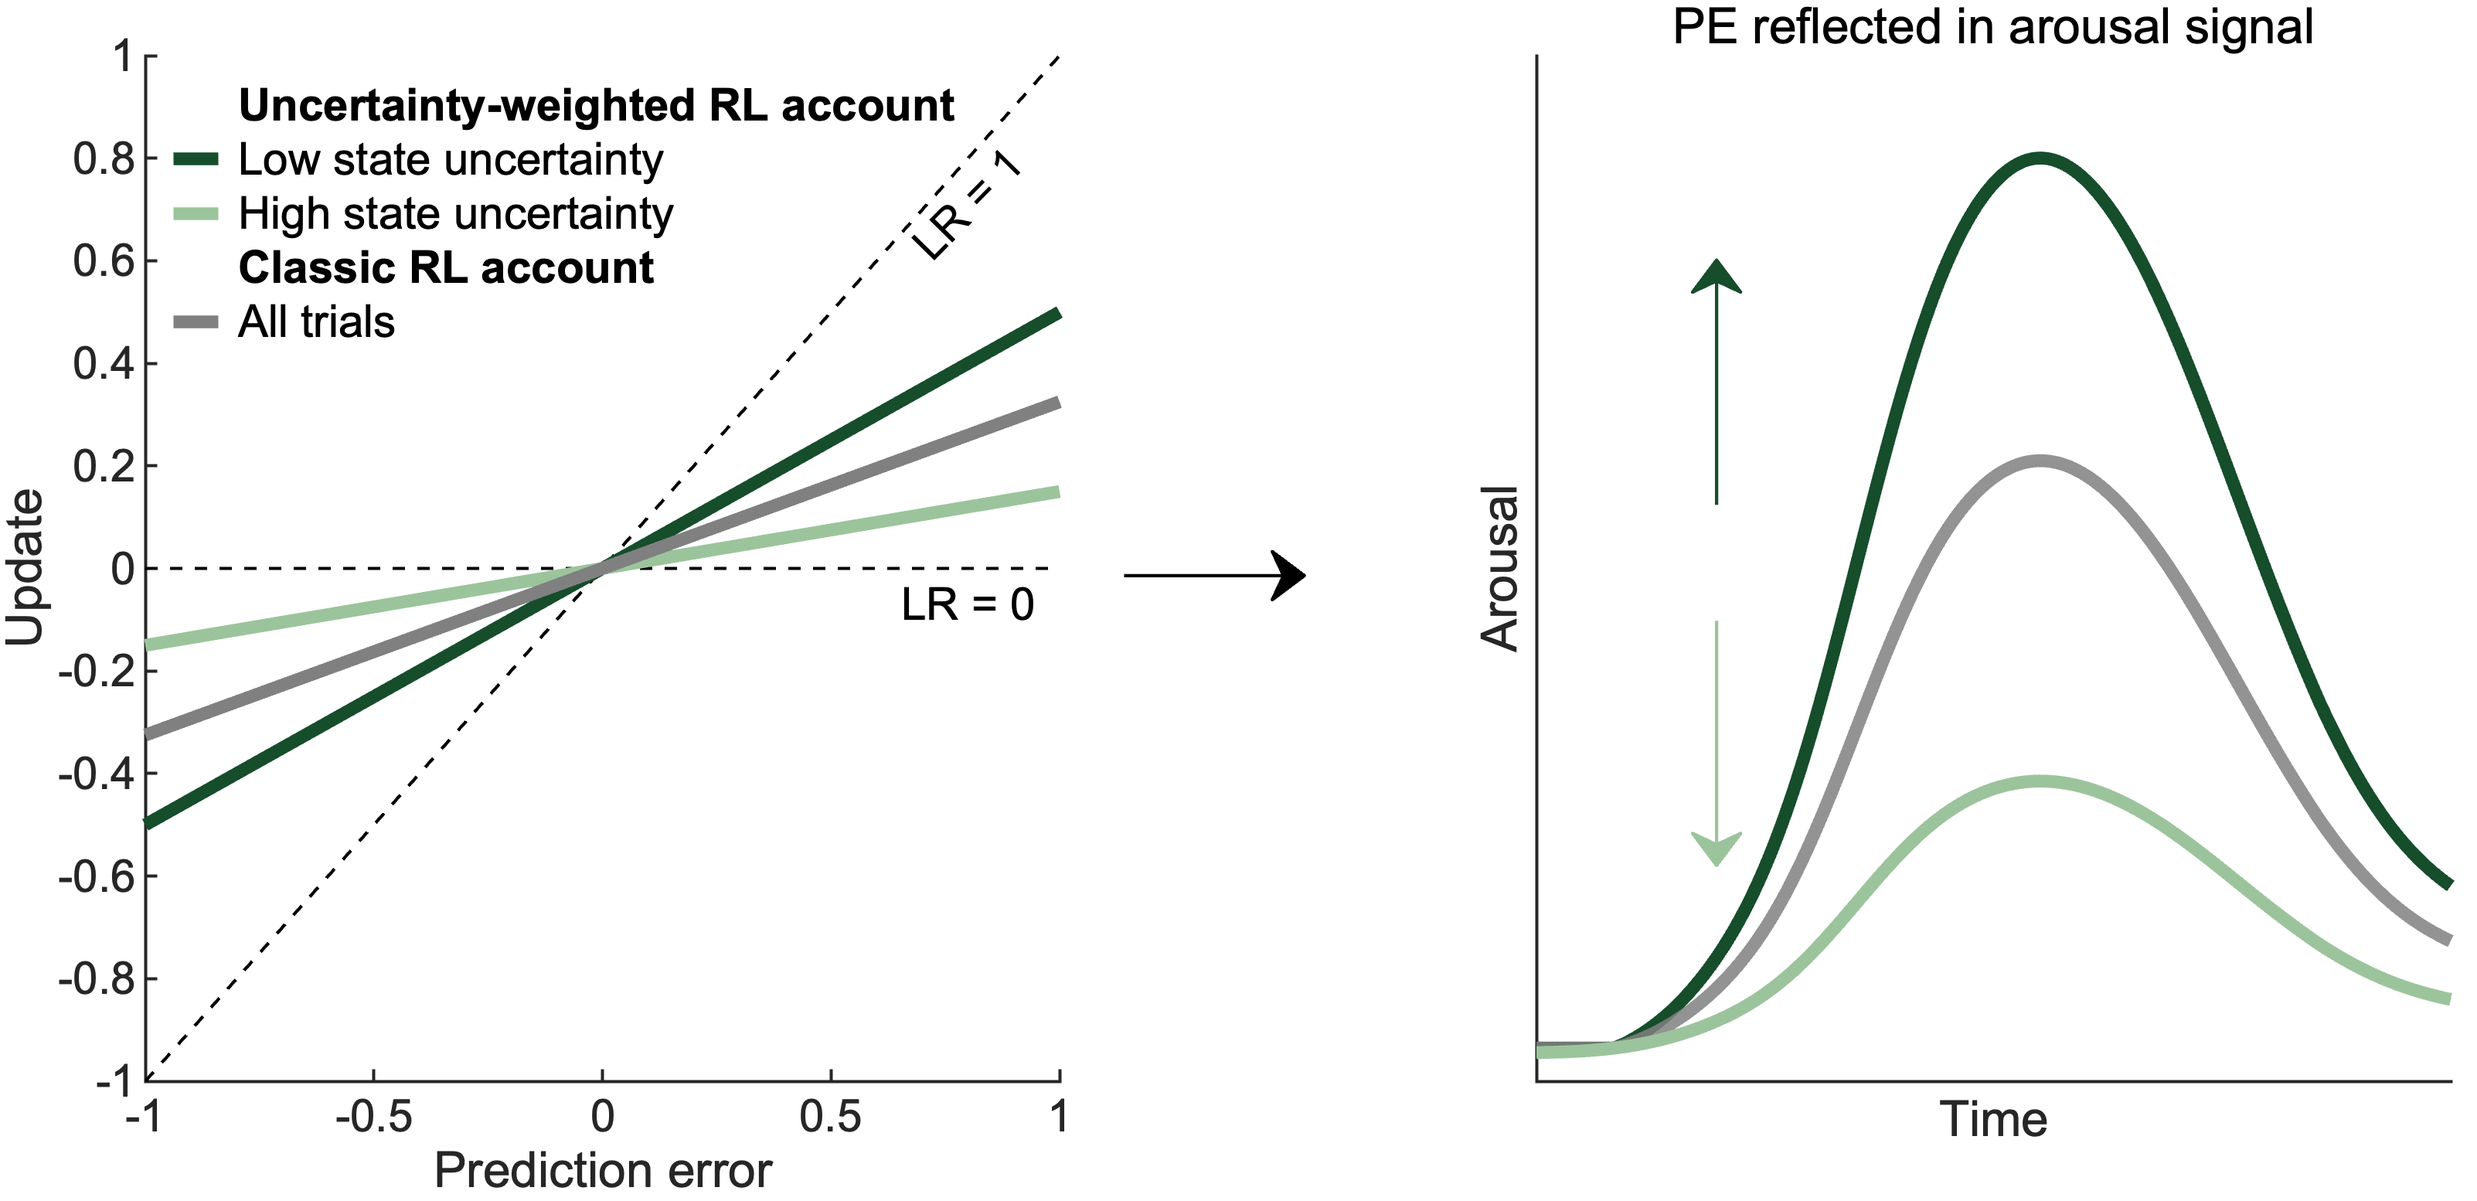
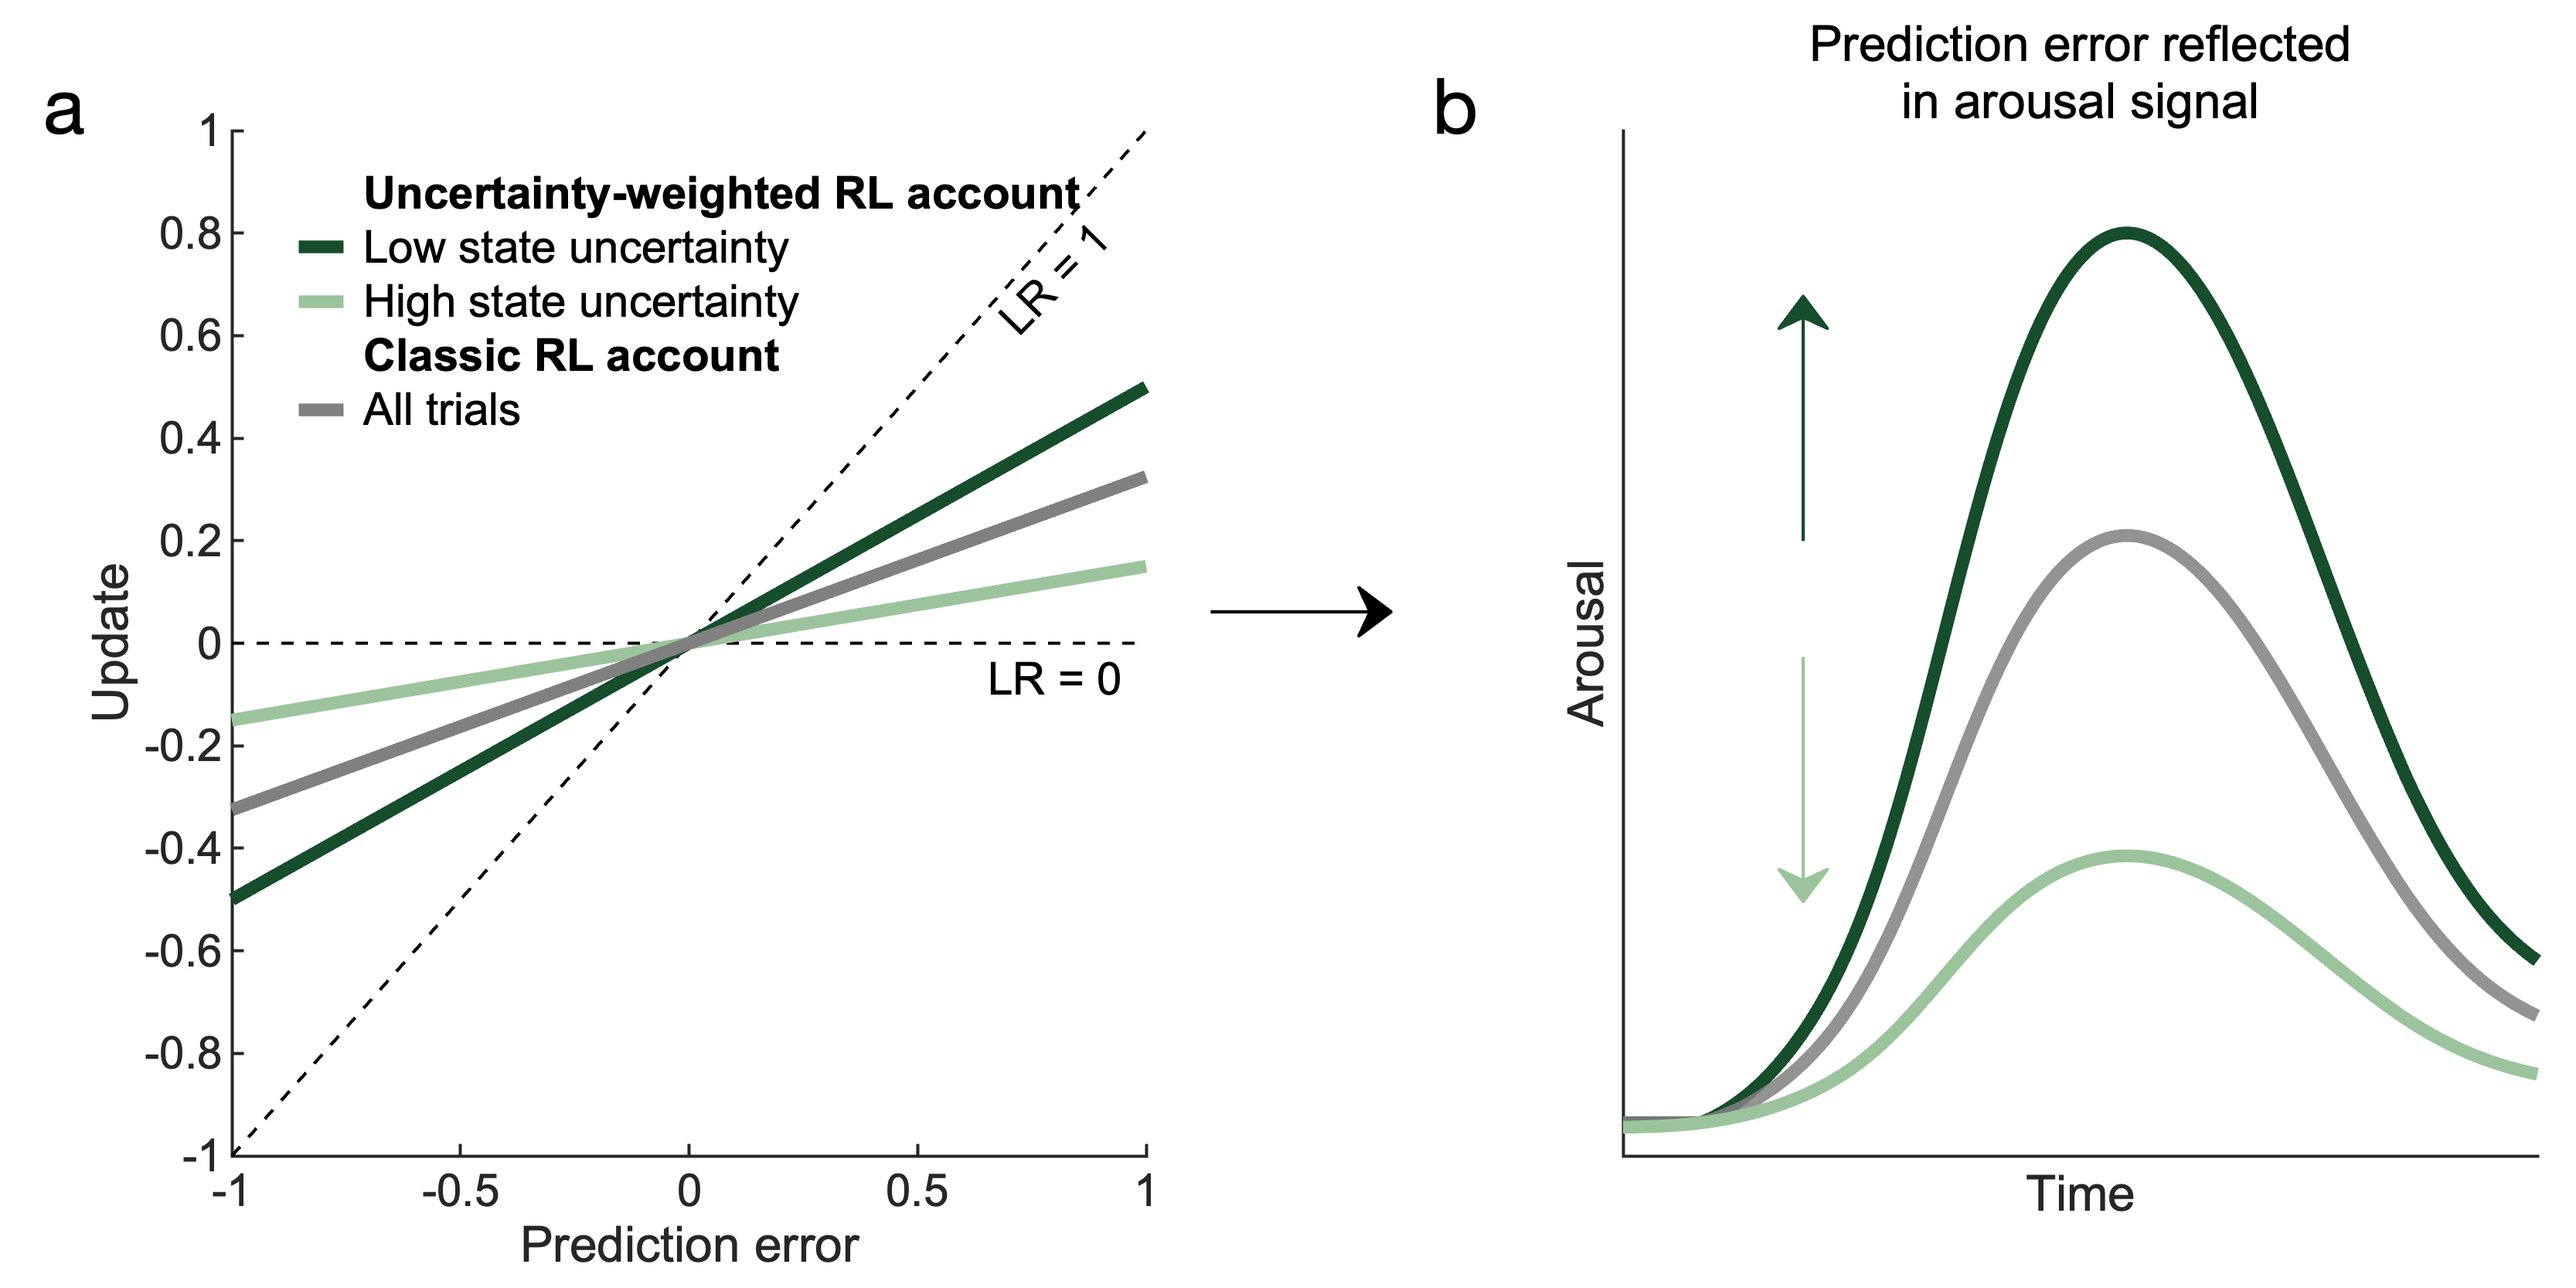
added demo check script

diff --git a/demoCheck.m b/demoCheck.m
@@ -1,0 +1,79 @@
+clc
+clearvars
+
+folderPath = "/Users/prashantig/Brown Dropbox/Prashanti Ganesh/PhD/Semester 6/pupil_data/pre_preprocessed/behv/personal_info";
+files = dir(fullfile(folderPath, '*.*'));
+files = files(~[files.isdir]);
+
+formResponses   = {};   % form_index == 1  (gender)
+ageResponses    = {};   % form_index == 13
+fileNames       = {};
+
+for i = 1:length(files)
+    fileName = files(i).name;
+    fullPath = fullfile(folderPath, fileName);
+    [~, ~, ext] = fileparts(fileName);
+    
+    try
+        switch lower(ext)
+            case {'.csv', '.xlsx'}
+                T = readtable(fullPath);
+            case '.mat'
+                data = load(fullPath);
+                T = struct2table(data);
+            otherwise
+                fprintf('Skipping unsupported file: %s\n', fileName);
+                continue
+        end
+    catch ME
+        fprintf('Error loading %s: %s\n', fileName, ME.message);
+        continue
+    end
+    
+    if ~ismember('form_index', T.Properties.VariableNames) || ...
+       ~ismember('form_response', T.Properties.VariableNames)
+        fprintf('Skipping %s: missing required columns\n', fileName);
+        continue
+    end
+    
+    % form_index == 1 (gender)
+    idx1 = T.form_index == 1;
+    if any(idx1)
+        response = T.form_response(idx1);
+        formResponses{end+1} = response;
+        fileNames{end+1}     = fileName;
+    end
+    
+    % form_index == 13
+    idx13 = T.form_index == 13;
+    if any(idx13)
+        ageResponses{end+1} = T.form_response(idx13);
+    end
+end
+
+% --- Gender distribution ---
+summaryTable = table(fileNames', formResponses', 'VariableNames', {'FileName', 'FormResponse'});
+genderDist   = cell2mat(summaryTable.FormResponse);
+fprintf('Gender 0: %d\n', sum(genderDist == 0));
+fprintf('Gender 1: %d\n', sum(genderDist == 1));
+fprintf('Gender 2: %d\n', sum(genderDist == 2));
+
+% --- form_index == 13: mean and SEM ---
+responses13 = cell2mat(ageResponses');   % convert to numeric vector
+meanVal = mean(responses13, 'omitnan');
+semVal  = std(responses13, 'omitnan') / sqrt(sum(~isnan(responses13)));
+
+fprintf('\nform_index 13 — Mean: %.2f, SEM: %.2f (n=%d)\n', meanVal, semVal, sum(~isnan(responses13)));
+
+%% --- Missing participants ---
+path2 = "/Users/prashantig/Brown Dropbox/Prashanti Ganesh/PhD/Semester 6/pupil_data/raw";
+rawFolders = dir(path2);
+rawFolders = rawFolders([rawFolders.isdir]);
+rawFolders = rawFolders(~ismember({rawFolders.name}, {'.','..'}));
+rawIDs     = string({rawFolders.name});
+infoIDs    = replace(string(fileNames'), '_personal_info.csv', '');
+missingIDs = setdiff(rawIDs, infoIDs);
+fprintf('\nParticipants in raw but missing from personal_info (%d):\n', numel(missingIDs));
+for i = 1:numel(missingIDs)
+    fprintf('  %s\n', missingIDs(i));
+end

diff --git a/Figures/main/figure1.m b/Figures/main/figure1.m
@@ -49,7 +49,7 @@ ar1.Y = [0.49,0.3];
 %% PLOT LEARNING RATES
 
 % POSITION CHANGE
-position_change = [0.025,0.03,-0.05,-0.05];%[0.1,0.1,-0.1,-0.15]; % change in position % use this if LR is subplot a
+position_change = [0.025,0,-0.05,-0.05];%[0.1,0.1,-0.1,-0.15]; % change in position % use this if LR is subplot a
 new_pos = change_position(ax3,position_change);
 ax3_new = axes('Units', 'Normalized', 'Position', new_pos);
 box(ax3_new, 'on');
@@ -121,7 +121,7 @@ end
 %% PLOT PU modulated PUPIL
 
 % POSITION CHANGE
-position_change = [0.09,0.03,-0.05,-0.05];% change in position and use this if arousal is subplot b 
+position_change = [0.09,0,-0.05,-0.05];% change in position and use this if arousal is subplot b 
 new_pos = change_position(ax2,position_change);
 ax2_new = axes('Units', 'Normalized', 'Position', new_pos);
 box(ax2_new, 'on');
@@ -154,7 +154,9 @@ xlim([-300,2700])
 ylim([-5,150])
 xticks([]); % Remove x-axis ticks
 yticks([]); % Remove x-axis ticks
-title('PE reflected in arousal signal','FontWeight','normal')
+
+title({'Prediction error reflected', 'in arousal signal'}, 'FontWeight', 'normal')
+t.Position(2) = t.Position(2) + 0.1;  % increase the y-value to move title up
 adjust_figprops(ax2_new,font_name,font_size,0.5);
 
 % ADD ROTATED TEXT BOXES
@@ -177,7 +179,7 @@ end
 
 ax1_pos = ax3_new.Position;
 adjust_x = -0.09; % adjust x-position of subplot label
-adjust_y = ax1_pos(4) + 0.04; % adjust y-position of subplot label
+adjust_y = ax1_pos(4) + 0.02; % adjust y-position of subplot label
 [label_x,label_y] = change_plotlabel(ax3_new,adjust_x,adjust_y);
 annotation("textbox",[label_x label_y .05 .05],'String', ...
     'a','FontSize',12,'LineStyle','none','HorizontalAlignment','center')
